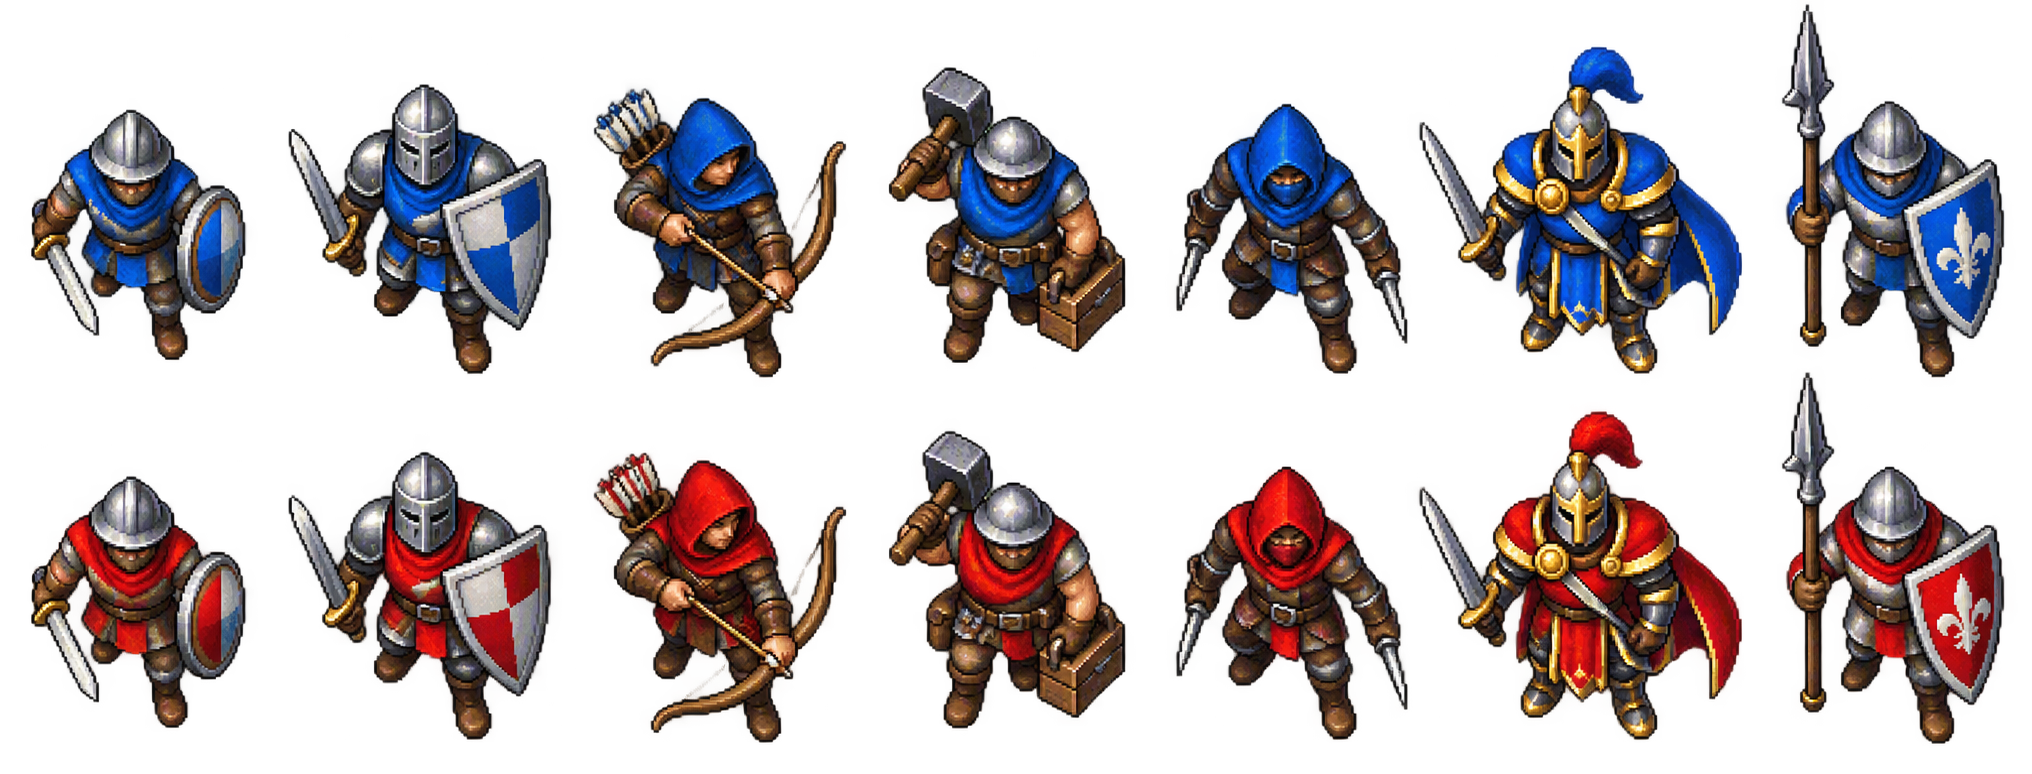
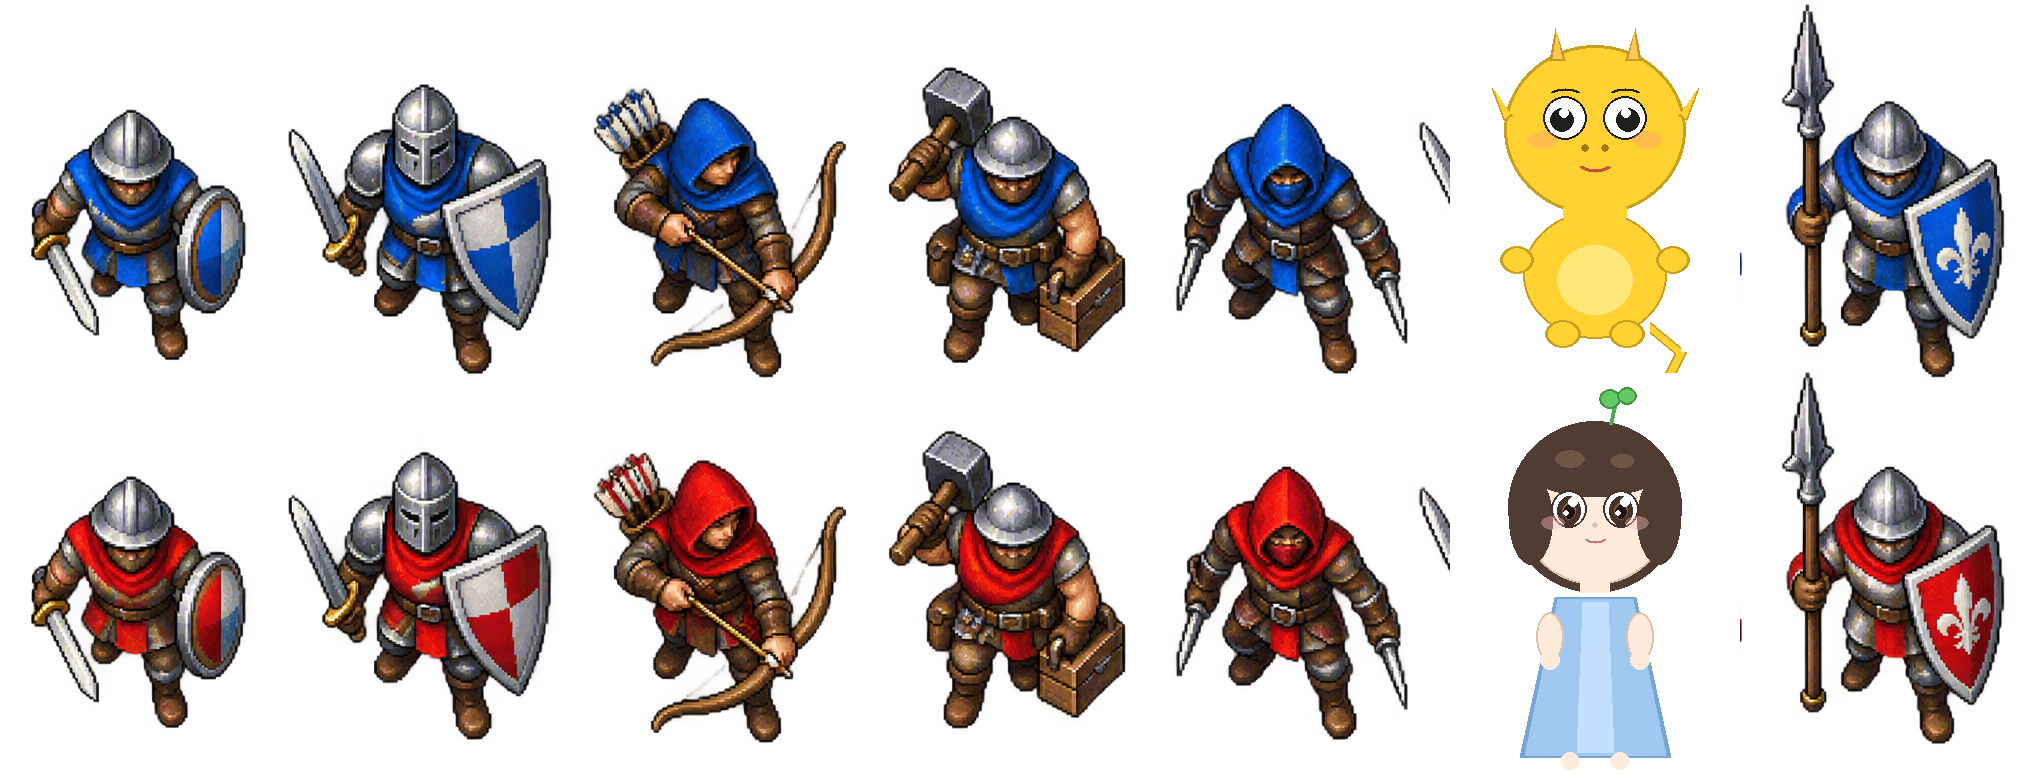
feat: add commander custom sprite support, replay return button, and help overlay fix
- Add independent commander sprite loading (commander_ally.png / commander_enemy.png)
- Add '返回' button to replay scene for returning to main menu
- Increase help overlay opacity to prevent content bleed-through
- Update generate_assets.py with commander sprite painting function

Changed region(s): [[0.7131, 0.031, 0.8681, 0.9922]]

diff --git a/scripts/generate_assets.py b/scripts/generate_assets.py
@@ -69,10 +69,277 @@ def sprites() -> None:
     pygame.display.quit()
 
 
+def _paint_commander_sprites() -> None:
+    """Replace commander cells (col 5) in units_atlas_v2.png with naiwa & doubao."""
+    import pygame
+
+    if pygame.display.get_surface() is None:
+        pygame.display.init()
+        pygame.display.set_mode((1, 1))
+    atlas_path = PIXEL / "units_atlas_v2.png"
+    if not atlas_path.exists():
+        return
+    atlas = pygame.image.load(str(atlas_path)).convert_alpha()
+    cell_w = atlas.get_width() // 7
+    cell_h = atlas.get_height() // 2
+
+    # Clear both commander cells
+    for row in range(2):
+        region = pygame.Rect(5 * cell_w, row * cell_h, cell_w, cell_h)
+        atlas.fill((0, 0, 0, 0), region)
+
+    # ── 奶娃 (row 0): yellow chubby baby dragon ──
+    ox0 = 5 * cell_w  # origin x for column 5
+    oy0 = 0  # origin y for row 0
+    cx = ox0 + cell_w // 2  # center x within cell
+
+    YELLOW = (255, 210, 50)
+    YELLOW_DARK = (200, 160, 30)
+    YELLOW_DEEP = (160, 120, 20)
+    BELLY = (255, 230, 120)
+    BLUSH = (255, 150, 120)
+    EYE_WHITE = (255, 255, 255)
+    EYE_BLACK = (30, 30, 30)
+    MOUTH = (200, 80, 60)
+    HORN = (255, 200, 80)
+    HORN_DARK = (200, 150, 40)
+
+    # Head (large, ~55% of visual)
+    head_cy = oy0 + 130
+    head_rx, head_ry = 88, 82
+    pygame.draw.ellipse(atlas, YELLOW_DARK, (cx - head_rx - 3, head_cy - head_ry - 3, (head_rx + 3) * 2, (head_ry + 3) * 2))
+    pygame.draw.ellipse(atlas, YELLOW, (cx - head_rx, head_cy - head_ry, head_rx * 2, head_ry * 2))
+
+    # Dragon horns (two small triangles on top)
+    for hx_sign in (-1, 1):
+        hx = cx + hx_sign * 38
+        horn_base = head_cy - head_ry + 8
+        pygame.draw.polygon(atlas, HORN_DARK, [(hx - 8, horn_base + 4), (hx + 8, horn_base + 4), (hx + hx_sign * 2, horn_base - 28)])
+        pygame.draw.polygon(atlas, HORN, [(hx - 5, horn_base + 2), (hx + 5, horn_base + 2), (hx + hx_sign * 1, horn_base - 24)])
+
+    # Body (chubby oval below head)
+    body_cy = oy0 + 275
+    body_rx, body_ry = 70, 62
+    pygame.draw.ellipse(atlas, YELLOW_DARK, (cx - body_rx - 2, body_cy - body_ry - 2, (body_rx + 2) * 2, (body_ry + 2) * 2))
+    pygame.draw.ellipse(atlas, YELLOW, (cx - body_rx, body_cy - body_ry, body_rx * 2, body_ry * 2))
+
+    # Belly patch (lighter oval)
+    belly_cy = body_cy + 5
+    pygame.draw.ellipse(atlas, BELLY, (cx - 38, belly_cy - 35, 76, 70))
+
+    # Neck (connect head to body)
+    pygame.draw.ellipse(atlas, YELLOW, (cx - 32, head_cy + head_ry - 30, 64, 60))
+
+    # Arms (short stubby)
+    for arm_sign in (-1, 1):
+        ax = cx + arm_sign * (body_rx + 8)
+        ay = body_cy - 15
+        pygame.draw.ellipse(atlas, YELLOW_DARK, (ax - 17, ay - 14, 34, 28))
+        pygame.draw.ellipse(atlas, YELLOW, (ax - 14, ay - 12, 28, 24))
+
+    # Legs (short stubby)
+    for leg_sign in (-1, 1):
+        lx = cx + leg_sign * 32
+        ly = oy0 + 330
+        pygame.draw.ellipse(atlas, YELLOW_DARK, (lx - 18, ly - 10, 36, 28))
+        pygame.draw.ellipse(atlas, YELLOW, (lx - 15, ly - 8, 30, 24))
+
+    # Tail (small curve from bottom-right)
+    tail_points = [(cx + 55, body_cy + body_ry - 10), (cx + 85, body_cy + body_ry + 15), (cx + 75, body_cy + body_ry + 35)]
+    pygame.draw.lines(atlas, YELLOW_DARK, False, tail_points, 12)
+    pygame.draw.lines(atlas, YELLOW, False, tail_points, 8)
+
+    # Eyes (big cute round eyes)
+    for eye_sign in (-1, 1):
+        ex = cx + eye_sign * 30
+        ey = head_cy - 12
+        # White sclera
+        pygame.draw.circle(atlas, EYE_WHITE, (ex, ey), 22)
+        pygame.draw.circle(atlas, EYE_BLACK, (ex, ey), 22, 2)
+        # Pupil (slightly off-center for cuteness)
+        pygame.draw.circle(atlas, EYE_BLACK, (ex + eye_sign * 3, ey + 2), 12)
+        # Eye shine
+        pygame.draw.circle(atlas, EYE_WHITE, (ex + eye_sign * 1, ey - 5), 5)
+
+    # Eyebrows (small arcs above eyes)
+    for eye_sign in (-1, 1):
+        bx = cx + eye_sign * 30
+        by = head_cy - 36
+        pygame.draw.arc(atlas, EYE_BLACK, (bx - 16, by - 6, 32, 14), 0.2, 2.94, 2)
+
+    # Nostrils (two small dots)
+    pygame.draw.circle(atlas, YELLOW_DEEP, (cx - 10, head_cy + 18), 4)
+    pygame.draw.circle(atlas, YELLOW_DEEP, (cx + 10, head_cy + 18), 4)
+
+    # Mouth (small happy curve)
+    mouth_rect = (cx - 18, head_cy + 22, 36, 20)
+    pygame.draw.arc(atlas, MOUTH, mouth_rect, 3.4, 6.0, 3)
+
+    # Blush (rosy cheeks)
+    for cheek_sign in (-1, 1):
+        chx = cx + cheek_sign * 52
+        chy = head_cy + 10
+        blush_surf = pygame.Surface((30, 18), pygame.SRCALPHA)
+        pygame.draw.ellipse(blush_surf, (*BLUSH, 90), (0, 0, 30, 18))
+        atlas.blit(blush_surf, (chx - 15, chy - 9))
+
+    # Small ear-like fins (dragon feature)
+    for ear_sign in (-1, 1):
+        ear_x = cx + ear_sign * (head_rx - 5)
+        ear_y = head_cy - 30
+        pygame.draw.polygon(atlas, YELLOW_DARK, [
+            (ear_x, ear_y + 15),
+            (ear_x + ear_sign * 20, ear_y - 12),
+            (ear_x + ear_sign * 8, ear_y + 20),
+        ])
+        pygame.draw.polygon(atlas, YELLOW, [
+            (ear_x + ear_sign * 2, ear_y + 13),
+            (ear_x + ear_sign * 17, ear_y - 9),
+            (ear_x + ear_sign * 7, ear_y + 18),
+        ])
+
+    # ── 豆包AI (row 1): warm-white cute girl ──
+    ox1 = 5 * cell_w
+    oy1 = cell_h
+
+    SKIN = (255, 235, 220)
+    SKIN_DARK = (220, 195, 175)
+    HAIR = (80, 60, 50)
+    HAIR_HIGHLIGHT = (110, 85, 70)
+    DRESS = (160, 200, 240)
+    DRESS_DARK = (120, 165, 210)
+    DRESS_LIGHT = (195, 225, 255)
+    BLUSH2 = (255, 190, 190)
+    EYE_BROWN = (70, 50, 40)
+    EYE_LIGHT = (120, 90, 70)
+    SPROUT_GREEN = (100, 200, 100)
+    SPROUT_DARK = (60, 150, 60)
+    SPROUT_STEM = (80, 170, 80)
+
+    # Hair (covers top of head, short style)
+    hair_cy = oy1 + 120
+    hair_rx, hair_ry = 82, 78
+    # Hair base (larger than head)
+    pygame.draw.ellipse(atlas, HAIR, (cx - hair_rx - 5, hair_cy - hair_ry - 8, (hair_rx + 5) * 2, (hair_ry + 8) * 2))
+
+    # Face (round, sits on top of hair)
+    face_cy = oy1 + 128
+    face_rx, face_ry = 72, 68
+    pygame.draw.ellipse(atlas, SKIN_DARK, (cx - face_rx - 2, face_cy - face_ry - 2, (face_rx + 2) * 2, (face_ry + 2) * 2))
+    pygame.draw.ellipse(atlas, SKIN, (cx - face_rx, face_cy - face_ry, face_rx * 2, face_ry * 2))
+
+    # Hair bangs (fringe over forehead)
+    bangs_y = face_cy - face_ry + 5
+    pygame.draw.ellipse(atlas, HAIR, (cx - 68, bangs_y - 10, 136, 55))
+    # Hair highlight
+    pygame.draw.ellipse(atlas, HAIR_HIGHLIGHT, (cx - 40, bangs_y - 2, 30, 18))
+    pygame.draw.ellipse(atlas, HAIR_HIGHLIGHT, (cx + 15, bangs_y + 2, 25, 14))
+
+    # Side hair (covers ears area)
+    for side_sign in (-1, 1):
+        sx = cx + side_sign * (face_rx - 8)
+        pygame.draw.ellipse(atlas, HAIR, (sx - 22, face_cy - 40, 44, 90))
+
+    # Body / dress
+    body_top = oy1 + 210
+    dress_w = 75
+    # Dress trapezoid shape
+    pygame.draw.polygon(atlas, DRESS_DARK, [
+        (cx - 40, body_top),
+        (cx + 40, body_top),
+        (cx + dress_w, oy1 + 370),
+        (cx - dress_w, oy1 + 370),
+    ])
+    pygame.draw.polygon(atlas, DRESS, [
+        (cx - 37, body_top + 2),
+        (cx + 37, body_top + 2),
+        (cx + dress_w - 5, oy1 + 368),
+        (cx - dress_w + 5, oy1 + 368),
+    ])
+    # Dress light stripe
+    pygame.draw.polygon(atlas, DRESS_LIGHT, [
+        (cx - 12, body_top + 5),
+        (cx + 12, body_top + 5),
+        (cx + 18, oy1 + 365),
+        (cx - 18, oy1 + 365),
+    ])
+
+    # Neck
+    pygame.draw.rect(atlas, SKIN, (cx - 15, face_cy + face_ry - 15, 30, 25))
+
+    # Arms (small, coming from dress)
+    for arm_sign in (-1, 1):
+        ax = cx + arm_sign * 45
+        ay = body_top + 25
+        pygame.draw.ellipse(atlas, SKIN_DARK, (ax - 14, ay - 10, 28, 50))
+        pygame.draw.ellipse(atlas, SKIN, (ax - 12, ay - 8, 24, 46))
+        # Hand
+        pygame.draw.circle(atlas, SKIN, (ax, ay + 38), 10)
+
+    # Legs (barely visible under dress)
+    for leg_sign in (-1, 1):
+        lx = cx + leg_sign * 25
+        ly = oy1 + 365
+        pygame.draw.ellipse(atlas, SKIN, (lx - 10, ly, 20, 18))
+
+    # Eyes (big cute anime-style)
+    for eye_sign in (-1, 1):
+        ex = cx + eye_sign * 26
+        ey = face_cy - 5
+        # Eye white
+        pygame.draw.ellipse(atlas, EYE_WHITE, (ex - 18, ey - 20, 36, 38))
+        pygame.draw.ellipse(atlas, EYE_BROWN, (ex - 18, ey - 20, 36, 38), 2)
+        # Iris (large)
+        pygame.draw.ellipse(atlas, EYE_BROWN, (ex - 12, ey - 14, 24, 30))
+        # Inner lighter iris
+        pygame.draw.ellipse(atlas, EYE_LIGHT, (ex - 7, ey - 8, 14, 18))
+        # Pupil
+        pygame.draw.ellipse(atlas, (30, 20, 15), (ex - 6, ey - 5, 12, 14))
+        # Eye shine (two highlights)
+        pygame.draw.circle(atlas, EYE_WHITE, (ex + 4, ey - 8), 5)
+        pygame.draw.circle(atlas, EYE_WHITE, (ex - 3, ey + 3), 3)
+
+    # Eyebrows (thin, gentle arcs)
+    for eye_sign in (-1, 1):
+        bx = cx + eye_sign * 26
+        by = face_cy - 30
+        pygame.draw.arc(atlas, HAIR, (bx - 14, by - 4, 28, 12), 0.3, 2.84, 2)
+
+    # Nose (tiny dot)
+    pygame.draw.circle(atlas, SKIN_DARK, (cx, face_cy + 10), 3)
+
+    # Mouth (small sweet smile)
+    pygame.draw.arc(atlas, (200, 120, 120), (cx - 12, face_cy + 14, 24, 14), 3.4, 6.0, 2)
+
+    # Blush
+    for cheek_sign in (-1, 1):
+        chx = cx + cheek_sign * 42
+        chy = face_cy + 8
+        blush_surf = pygame.Surface((24, 14), pygame.SRCALPHA)
+        pygame.draw.ellipse(blush_surf, (*BLUSH2, 100), (0, 0, 24, 14))
+        atlas.blit(blush_surf, (chx - 12, chy - 7))
+
+    # Bean sprout hair accessory (on top of head)
+    sprout_base_x = cx + 15
+    sprout_base_y = hair_cy - hair_ry - 5
+    # Stem
+    pygame.draw.line(atlas, SPROUT_STEM, (sprout_base_x, sprout_base_y), (sprout_base_x + 5, sprout_base_y - 22), 4)
+    # Leaves (two small oval leaves)
+    leaf_cx = sprout_base_x + 5
+    leaf_cy = sprout_base_y - 25
+    pygame.draw.ellipse(atlas, SPROUT_DARK, (leaf_cx - 16, leaf_cy - 10, 22, 20))
+    pygame.draw.ellipse(atlas, SPROUT_GREEN, (leaf_cx - 14, leaf_cy - 8, 18, 16))
+    pygame.draw.ellipse(atlas, SPROUT_DARK, (leaf_cx + 2, leaf_cy - 12, 20, 18))
+    pygame.draw.ellipse(atlas, SPROUT_GREEN, (leaf_cx + 4, leaf_cy - 10, 16, 14))
+
+    pygame.image.save(atlas, str(atlas_path))
+
+
 def main() -> None:
     PIXEL.mkdir(parents=True, exist_ok=True)
     AUDIO.mkdir(parents=True, exist_ok=True)
     sprites()
+    _paint_commander_sprites()
     tone(AUDIO / "command.wav", [(660, 0.05), (880, 0.07)])
     tone(AUDIO / "impact.wav", [(130, 0.05)], 0.18)
     tone(AUDIO / "complete.wav", [(440, 0.06), (660, 0.06), (880, 0.09)])

diff --git a/src/mygame/rendering/assets.py b/src/mygame/rendering/assets.py
@@ -24,6 +24,7 @@ class ArtBook:
         self.facility_cache: dict[tuple[str, int, int, bool], pygame.Surface] = {}
         self.village_cache: dict[int, pygame.Surface] = {}
         self.effect_cache: dict[tuple[str, int], pygame.Surface] = {}
+        self._commander_sources: dict[int, pygame.Surface] = {}
         self._load()
 
     @staticmethod
@@ -76,6 +77,21 @@ class ArtBook:
         except (FileNotFoundError, pygame.error, ValueError):
             logger.info("单位贴图图集不可用，使用战术标记回退", exc_info=True)
 
+        for faction_idx, label in ((0, "ally"), (1, "enemy")):
+            path = root / f"commander_{label}.png"
+            try:
+                source = pygame.image.load(path).convert_alpha()
+                bounds = source.get_bounding_rect(min_alpha=8)
+                cropped = source.subsurface(bounds).copy() if bounds.width else source
+                side = max(cropped.get_width(), cropped.get_height())
+                normalized = pygame.Surface((side, side), pygame.SRCALPHA)
+                normalized.blit(cropped, cropped.get_rect(center=normalized.get_rect().center))
+                self._commander_sources[faction_idx] = normalized
+            except (FileNotFoundError, pygame.error, ValueError):
+                pass
+        if 1 not in self._commander_sources and 0 in self._commander_sources:
+            self._commander_sources[1] = self._commander_sources[0]
+
         for facility_kind in ("bridge", "tower"):
             try:
                 self.facility_sources[facility_kind] = pygame.image.load(
@@ -122,14 +138,16 @@ class ArtBook:
         return self.terrain_cache[key]
 
     def unit(self, faction: int, kind: int, size: int) -> pygame.Surface | None:
-        source = self.unit_sources.get((faction, kind))
+        # 优先使用独立将领贴图
+        if kind == 5 and faction in self._commander_sources:
+            source = self._commander_sources[faction]
+        else:
+            source = self.unit_sources.get((faction, kind))
         if source is None:
             return None
         size = max(4, size)
         key = (faction, kind, size)
         if key not in self.unit_cache:
-            # A high-quality downsample becomes the pixel source; the final display
-            # layer still scales it with nearest-neighbour filtering.
             self.unit_cache[key] = pygame.transform.smoothscale(source, (size, size))
         return self.unit_cache[key]
 

diff --git a/src/mygame/app/game.py b/src/mygame/app/game.py
@@ -2526,6 +2526,9 @@ class GameApp:
                 self.canvas.blit(sprite, sprite_rect)
             if kind == UnitKind.COMMANDER:
                 pygame.draw.circle(self.canvas, self.theme.warning, (sx, sy), radius + 5, 2)
+                commander_name = "奶娃" if faction == int(Faction.PLAYER) else "豆包"
+                name_y = sy - (sprite_size // 2 + 12 if sprite is not None else radius + 12)
+                self._blit_text(commander_name, sx, name_y, 13, faction_color, True, center=True)
             if entity_id in self.selected_ids:
                 selection_radius = max(radius + 4, sprite_size // 2 if sprite is not None else 0)
                 pygame.draw.circle(self.canvas, self.theme.ink, (sx, sy), selection_radius, 1)
@@ -2723,6 +2726,7 @@ class GameApp:
                 ("暂停" if not self.paused else "继续", self._toggle_pause, 54),
                 ("帮助", lambda: setattr(self, "help_open", True), 50),
                 ("全屏", self._toggle_fullscreen, 50),
+                ("返回", lambda: setattr(self, "scene", "menu"), 46),
             ]
         else:
             actions = [
@@ -2735,7 +2739,7 @@ class GameApp:
                 ("帮助", lambda: setattr(self, "help_open", True), 46),
                 ("全屏", self._toggle_fullscreen, 46),
             ]
-        button_x = 530 if self.scene != "replay" else 566
+        button_x = 530 if self.scene != "replay" else 530
         for label, action, width in actions:
             self._draw_compact_button(
                 pygame.Rect(button_x, 5, width, 30),
@@ -3059,6 +3063,7 @@ class GameApp:
                 ("暂停" if not self.paused else "继续", self._toggle_pause, 54),
                 ("帮助", lambda: setattr(self, "help_open", True), 50),
                 ("全屏", self._toggle_fullscreen, 50),
+                ("返回", lambda: setattr(self, "scene", "menu"), 46),
             ]
         else:
             actions = [
@@ -3420,7 +3425,7 @@ class GameApp:
 
     def _draw_help(self) -> None:
         overlay = pygame.Surface(LOGICAL_SIZE, pygame.SRCALPHA)
-        overlay.fill((0, 0, 0, 190))
+        overlay.fill((0, 0, 0, 235))
         self.canvas.blit(overlay, (0, 0))
         panel = pygame.Rect(80, 50, 1120, 620)
         pygame.draw.rect(self.canvas, self.theme.surface, panel, border_radius=10)
